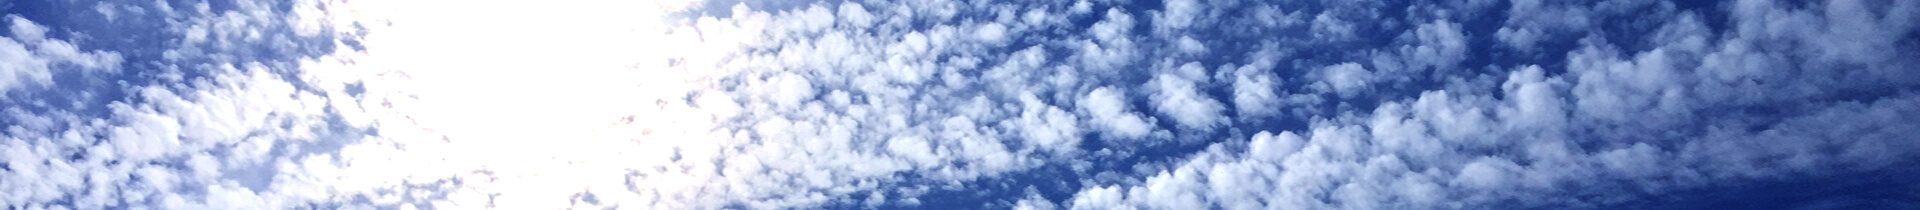
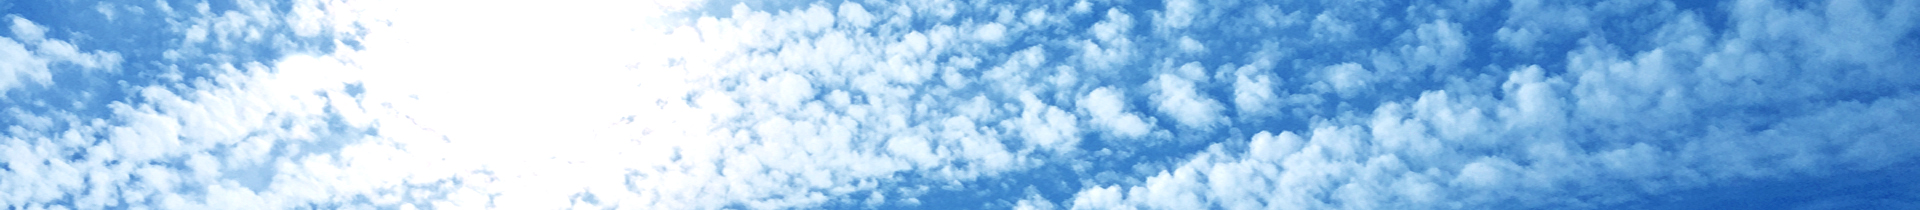
O nama promenjeno par stvari

diff --git a/o nama.html b/o nama.html
@@ -62,7 +62,7 @@
                 </nav>
             </div>
         </header> 
-        <div class="page_title gradient_overlay" style="background:url(images/etnoseloBabinarekaumetnost.jpg)">
+        <div class="page_title gradient_overlay" style="background:url(images/babinaRekaNebo.jpg)">
             <div class="container">
                 
             </div>
@@ -124,6 +124,15 @@
                                         <div class="details">
                                             <h6><a href="blog-post.html">Emisija Dobra Zemlja</a></h6>
                                             <span><i class="fa fa-calendar"></i>2013</span>
+                                        </div>
+                                    </article>
+                                    <article class="latest_post">
+                                        <figure>
+                                                <iframe src="https://www.youtube.com/embed/fLcGqnyWJJo" frameborder="0" allowfullscreen></iframe>
+                                        </figure>
+                                        <div class="details">
+                                            <h6><a href="blog-post.html">Izložba Lazarevac</a></h6>
+                                            <span><i class="fa fa-calendar"></i>2012</span>
                                         </div>
                                     </article>
                                     <article class="latest_post">
@@ -193,9 +202,10 @@
                                 
                                 <blockquote>
                                     <i class="fa fa-quote-left"></i>
-                                    <span class="quote_text">Babina reka je nastala tako što nisam vajao u drvetu i slikao na platnu, nego sam je stvarao u prostoru. Trudio sam se da je arhitektonski uskladim po mojoj zamisli i da svaki detalj bude na svom mestu.</span> <!-- Slaviša Živković, idejni tvorac -->
-
+                                    <span class="quote_text">Babina reka je nastala tako što nisam vajao u drvetu i slikao na platnu, nego sam je stvarao u prostoru. Trudio sam se da je arhitektonski uskladim po mojoj zamisli i da svaki detalj bude na svom mestu.</span> <!--  idejni tvorac -->
+                                    — <cite class="author">Slaviša Živković </cite>, vlasnik i idejni tvorac etno sela Babina reka
                                 </blockquote>
+
                                 <p>Sa radom je počelo u leto 2010. godine, a izgradnja i pripreme su trajale deset godina.</p>
                         
                         <p>Usudite se da prođete kroz kapiju iznad koje piše „Ko prođe da se zaljubi“, prošetajte se „Sokačetom dobrodošlice“ i ispratite sunce na zalasku sedeći na „Klupi za zaljubljene“. Prva građevina koja je ovde nastala danas je galerija-restoran, ukrašena uramljenim slikama starih kuća Srbije i motiva Šumadije- autorska dela Slaviše Živkovića. Tu je i kamin koji, posebno u zimskim mesecima, stvara prijatnu atmosferu za oko tridesetak gostiju. Teško je odoleti „Bunaru želja“, „Zid poznatih“, kafanskim stolovima sakrivenim u velikim buradima ili raznim kućnim alatima kojih ima svuda po dvorištu. Na udaljenosti od samo 50m nalazi se i jezero, kao i potok po kome je kompleks dobio ime- „Babina reka“. „Igralište prijateljstva“, teren za košarku, mali fudbal i stoni tenis su dostupni za ljubitelje rekreacije. U planu je i proširenje smeštajnog kapaciteta i izgradnja „Velikog zavičajnog muzeja“. </p>
@@ -231,7 +241,14 @@
                         <p class="main_description md_white a_center">Etno selo Babina Reka je dobitnik mnogobrojnih nagrada za kvalitet.</p>               
             
                 <dir class="AwardCont">
-                  
+                        <div class="nagrada">
+                            <div><img class="PicNagrada" src="images/nagrade/Sampion2013.jpg"></div>
+                            <div class="oNagradi">
+                                <h2>Zlatno turističko srce</h2>
+                                <p>Šampion etno turizma Jugoistočne Evrope, SACEN, 2013. </p>
+                            </div>
+                            
+                        </div> 
                        <div class="nagrada">
                             <div><img class="PicNagrada" src="images/nagrade/medalja2011.png"></div>
                             <div class="oNagradi">
@@ -249,20 +266,11 @@
                             
                         </div>
                         <div class="nagrada">
-                            <div><img class="PicNagrada" src="images/nagrade/slavagastro2011.jpg"></div>
-                            <div class="oNagradi">
-                                <h2>Slavska povelja</h2>
-                                <p>Zlatna medalja za slavu u etno selu, Festival slava i pravoslavlja "Slavagastro", 2011.</p>
-                            </div>
-                            
-                        </div>
-                        <div class="nagrada">
                             <div><img class="PicNagrada" src="images/nagrade/slavagastro2013.jpg"></div>
                             <div class="oNagradi">
                                 <h2>Slavska povelja</h2>
-                                <p>Zlatna medalja za slavu u etno selu, Festival slava i pravoslavlja "Slavagastro", 2013.</p>
+                                <p>Zlatna medalja SLAVA GASTRO festivala u Beogradu za najbolji slavski meni, 2013.</p>
                             </div>
-                            
                         </div>
                         <div class="nagrada">
                             <div><img class="PicNagrada" src="images/nagrade/plaketa.jpg"></div>
@@ -270,7 +278,6 @@
                                 <h2>Velika Zlatna Plaketa za Kvalitet</h2>
                                 <p>Najbolje Etno Selo Srbije, 45. Međunarodni sajam turizma, Novi Sad, 2012.</p>
                             </div>
-                            
                         </div>
                 
                    
@@ -299,17 +306,7 @@
                             </div>
                             
                         </div>
-                        
-                        
-                         
-                        <div class="nagrada">
-                            <div><img class="PicNagrada" src="images/nagrade/Sampion2013.jpg"></div>
-                            <div class="oNagradi">
-                                <h2>Zlatno turističko srce</h2>
-                                <p>Šampion etno turizma Jugoistočne Evrope, SACEN, 2013. </p>
-                            </div>
-                            
-                        </div>                     
+                   
                 </dir>
                         
                       
